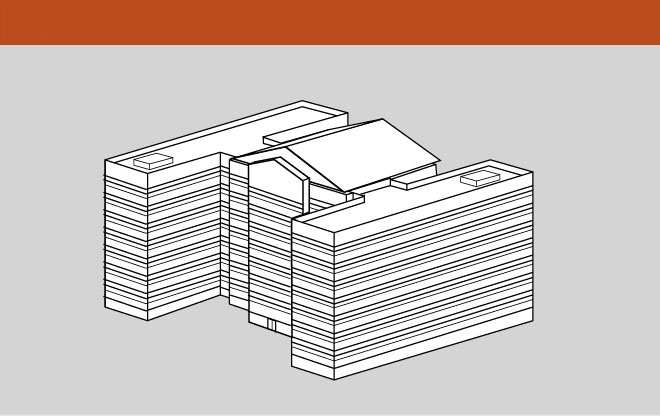
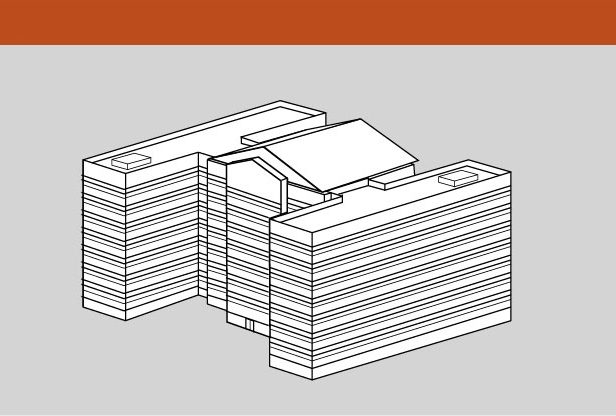
Removed the single dashboard item on the hotels top row (since we're now showing more hotels) Top row of hotels scrolls, bottom row of dashboards remains fixed
shrunk the width of the hotel images in order to fit 3 across the 1920 width

Changed region(s): [[0.1234, 0.2188, 0.8328, 0.9062]]

diff --git a/Source/FacilityManagementWebsite/SmartHotel.FacilityManagementWeb/SmartHotel.FacilityManagementWeb/ClientApp/src/app/home/home.component.css b/Source/FacilityManagementWebsite/SmartHotel.FacilityManagementWeb/SmartHotel.FacilityManagementWeb/ClientApp/src/app/home/home.component.css
@@ -3,34 +3,25 @@ section {
 }
 
 .hotels-top-row {
-  display: grid;
-  grid-template-columns: 1370px auto;
   width: 1920px;
 }
 
 .hotels {
   margin-top: 4px;
-  display: grid;
-  grid-template-columns: 660px 660px;
-  grid-column-gap: 24px;
-  grid-row-gap: 24px;
-  margin-left: 26px;
+  display: flex;
+  flex-wrap: wrap;
+  margin: -2px 0 -2px 21px;
   overflow-y: auto;
   overflow-x: hidden;
   height: 416px;
-  width: 1364px;
-}
-
-.hotel-side-dash {
-  margin-left: 24px;
-  margin-top: 4px;
 }
 
 .hotel {
-  width: 660px;
+  width: 616px;
   height: 416px;
   cursor: pointer;
   position: relative;
+  margin: 4px 5px 0 5px;
 }
 
 .hotel-image {

diff --git a/Source/FacilityManagementWebsite/SmartHotel.FacilityManagementWeb/SmartHotel.FacilityManagementWeb/ClientApp/src/app/home/home.component.ts b/Source/FacilityManagementWebsite/SmartHotel.FacilityManagementWeb/SmartHotel.FacilityManagementWeb/ClientApp/src/app/home/home.component.ts
@@ -28,7 +28,14 @@ export class HomeComponent implements OnInit {
   loadHotels() {
     this.spinnerService.show();
     this.facilityService.getHotel().then((data: IHotel[]) => {
-      this.hotels = data.sort((a, b) => a.name.localeCompare(b.name));
+      const fakeData = data;
+      data.forEach(d => {
+        fakeData.push(d);
+        fakeData.push(d);
+        fakeData.push(d);
+        fakeData.push(d);
+      });
+      this.hotels = fakeData.sort((a, b) => a.name.localeCompare(b.name));
       this.spinnerService.hide();
     });
 

diff --git a/Source/FacilityManagementWebsite/SmartHotel.FacilityManagementWeb/SmartHotel.FacilityManagementWeb/ClientApp/src/app/home/home.component.html b/Source/FacilityManagementWebsite/SmartHotel.FacilityManagementWeb/SmartHotel.FacilityManagementWeb/ClientApp/src/app/home/home.component.html
@@ -13,8 +13,6 @@
       </div>
     </div>
   </div>
-
-  <div class="hotels-dash-2 hotel-side-dash" *ngIf="hotels !== null"><img src="/assets/images/hotel-side-dash.jpg" /></div>
 </div>
 
 <div class="hotels-dashboard" *ngIf="hotels !== null">
